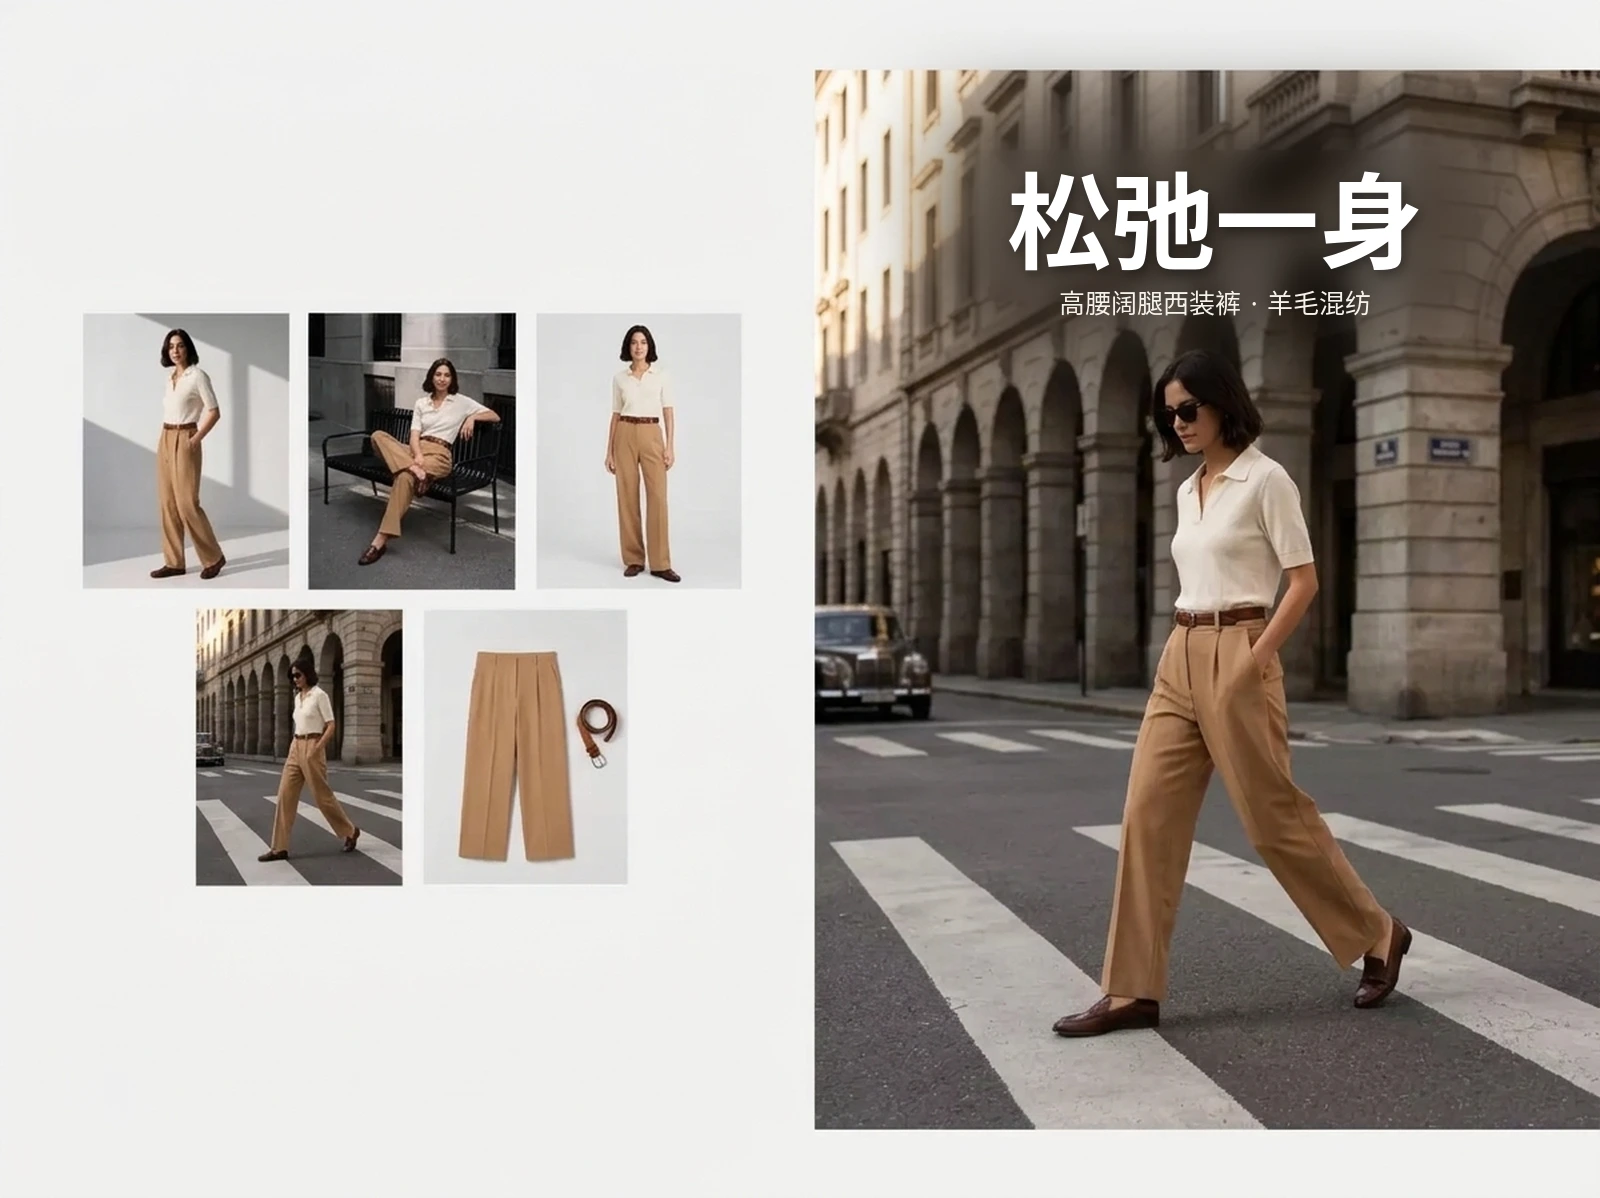
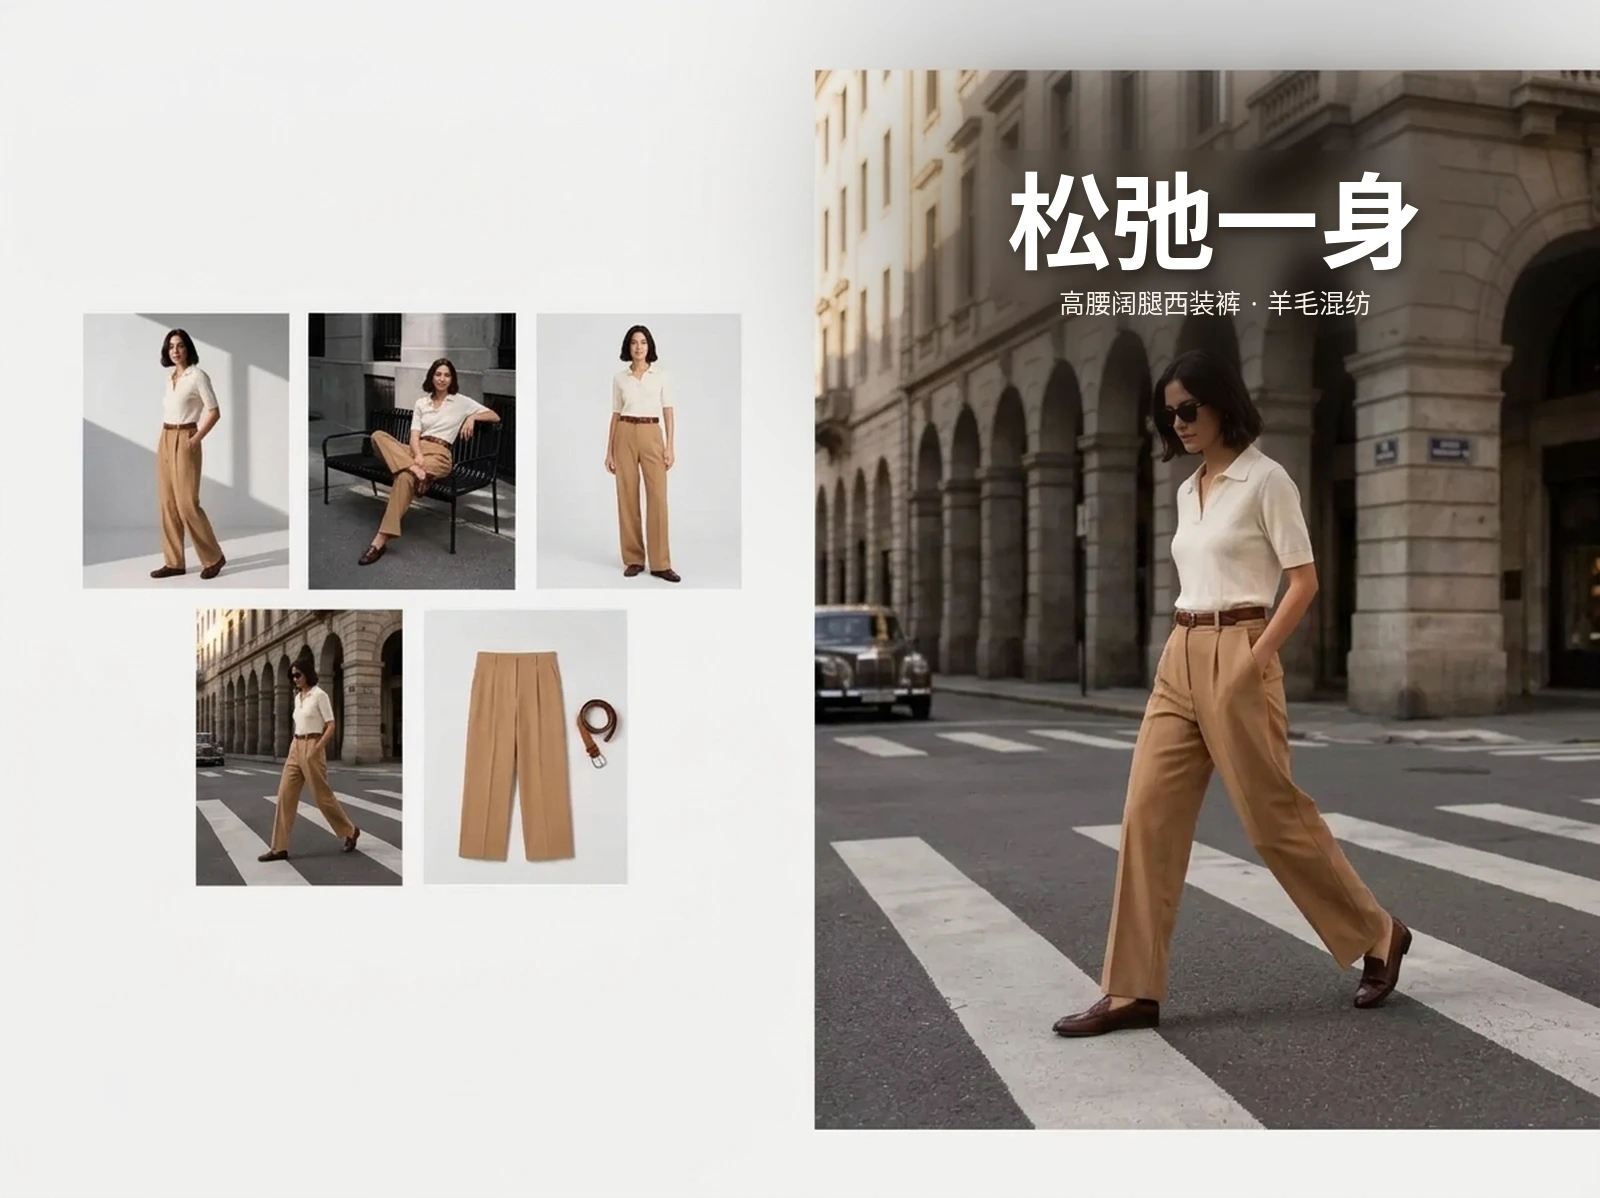
assets(#673 next): taobao title scrim feathered softer (blur 95, wider)

Changed region(s): [[0.5, 0.0, 1.0, 0.3088], [0.7812, 0.3706, 0.8125, 0.4015], [0.7188, 0.3088, 0.75, 0.3397]]

diff --git a/docs/design/673/next/tb_type.py b/docs/design/673/next/tb_type.py
@@ -3,8 +3,8 @@ import numpy as np
 B='/usr/share/fonts/opentype/noto/NotoSansCJK-Bold.ttc';R='/usr/share/fonts/opentype/noto/NotoSansCJK-Regular.ttc'
 im=Image.open('tb_base.png').convert('RGB')
 # soft scrim over the hero top (covers the pre-clean smear)
-a=np.array(im).astype(float);m=np.zeros(a.shape[:2]);m[110:340,930:1500]=1
-m=np.array(Image.fromarray((m*255).astype('uint8')).filter(ImageFilter.GaussianBlur(45))).astype(float)/255
+a=np.array(im).astype(float);m=np.zeros(a.shape[:2]);m[80:370,890:1540]=1
+m=np.array(Image.fromarray((m*255).astype('uint8')).filter(ImageFilter.GaussianBlur(95))).astype(float)/255
 blur=np.array(im.filter(ImageFilter.GaussianBlur(18))).astype(float)*0.55
 a=a*(1-m[...,None])+blur*m[...,None];im=Image.fromarray(a.astype('uint8'))
 d=ImageDraw.Draw(im);cx=1215
